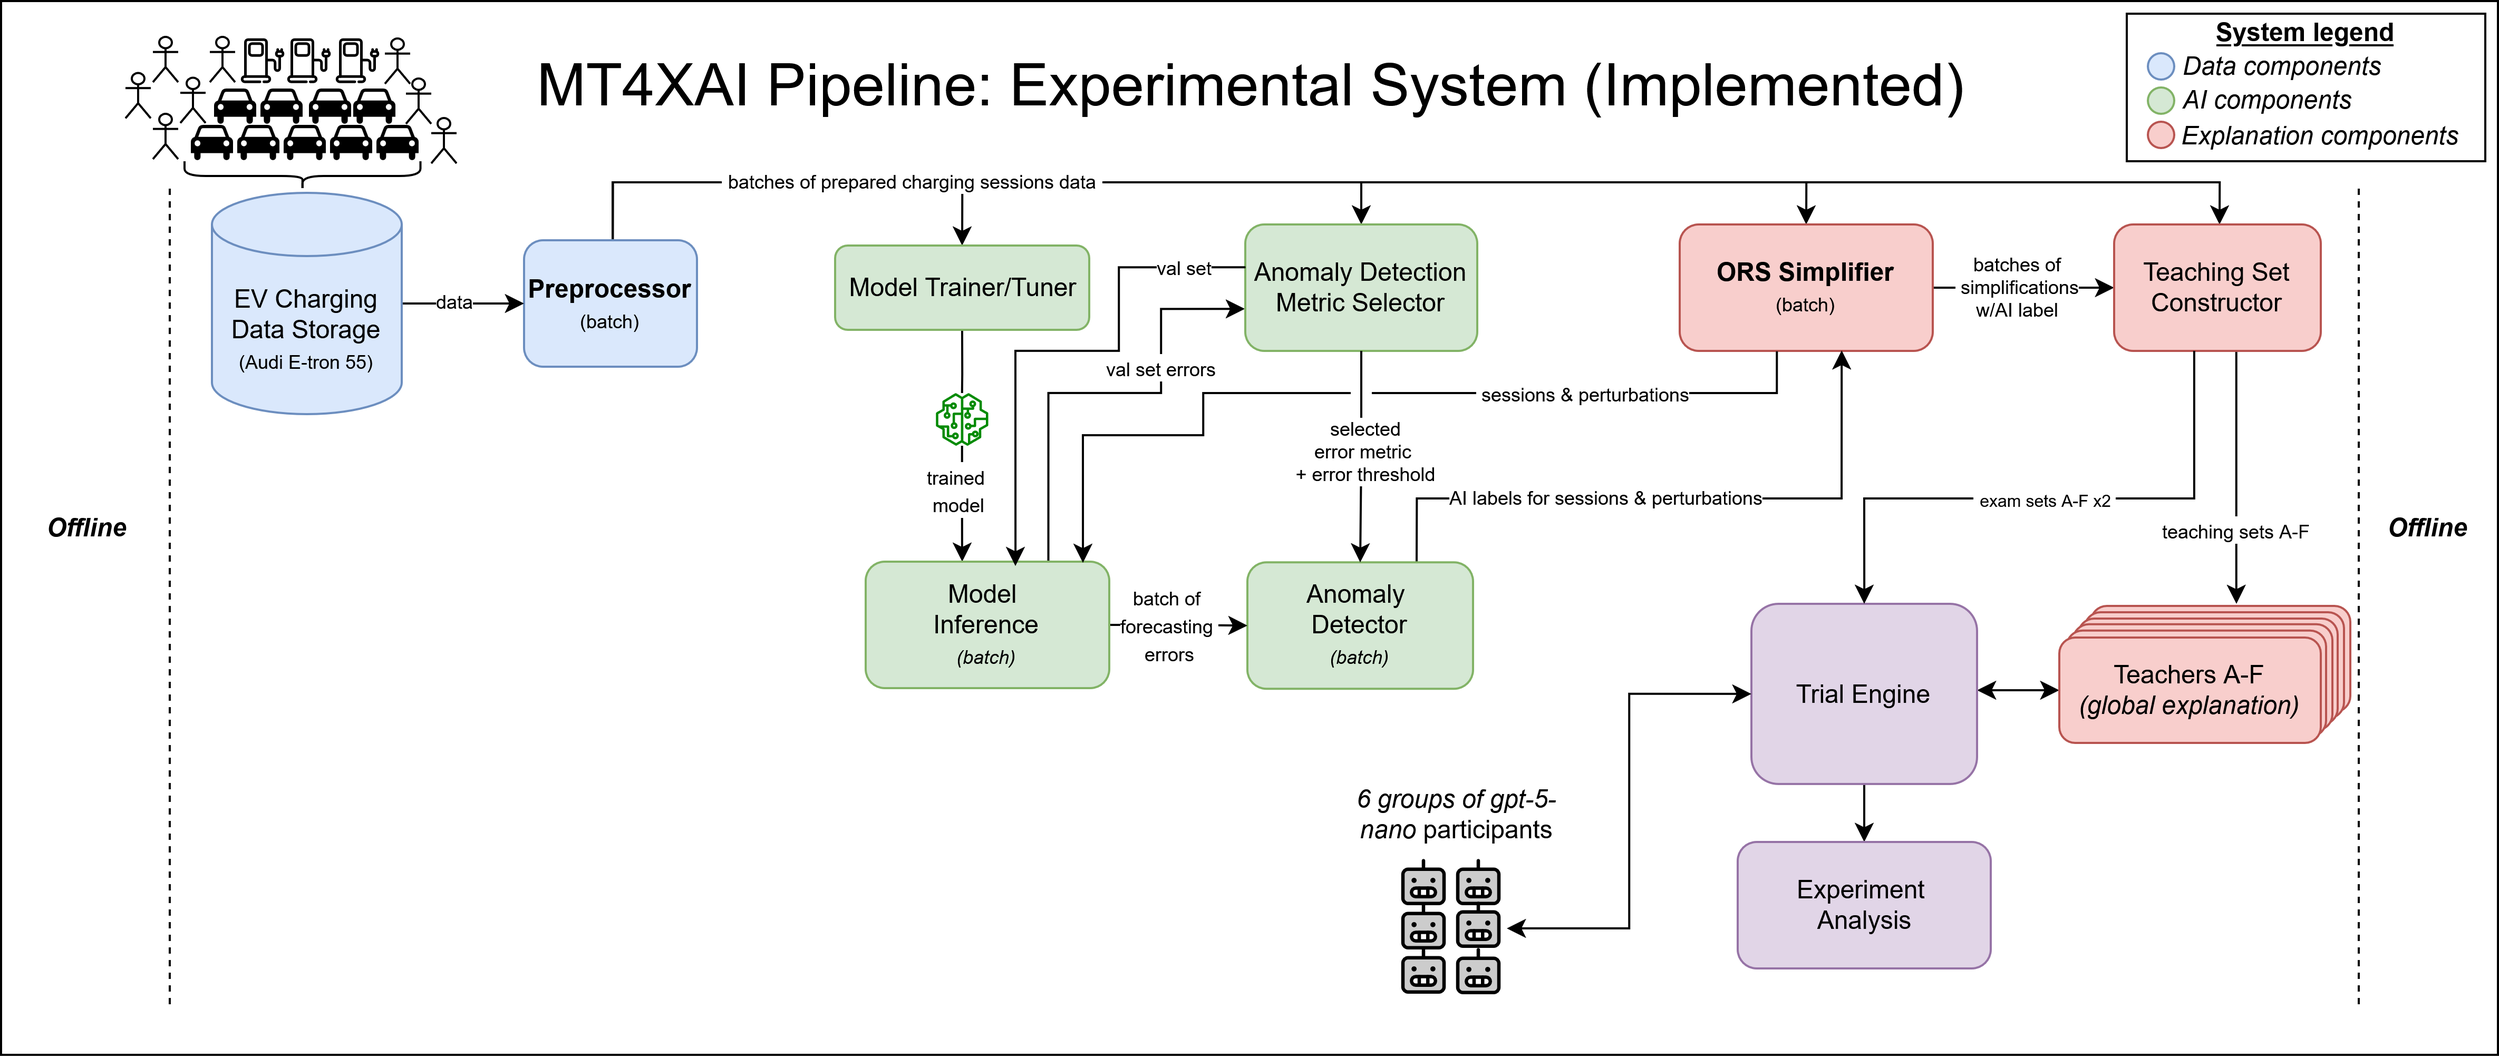
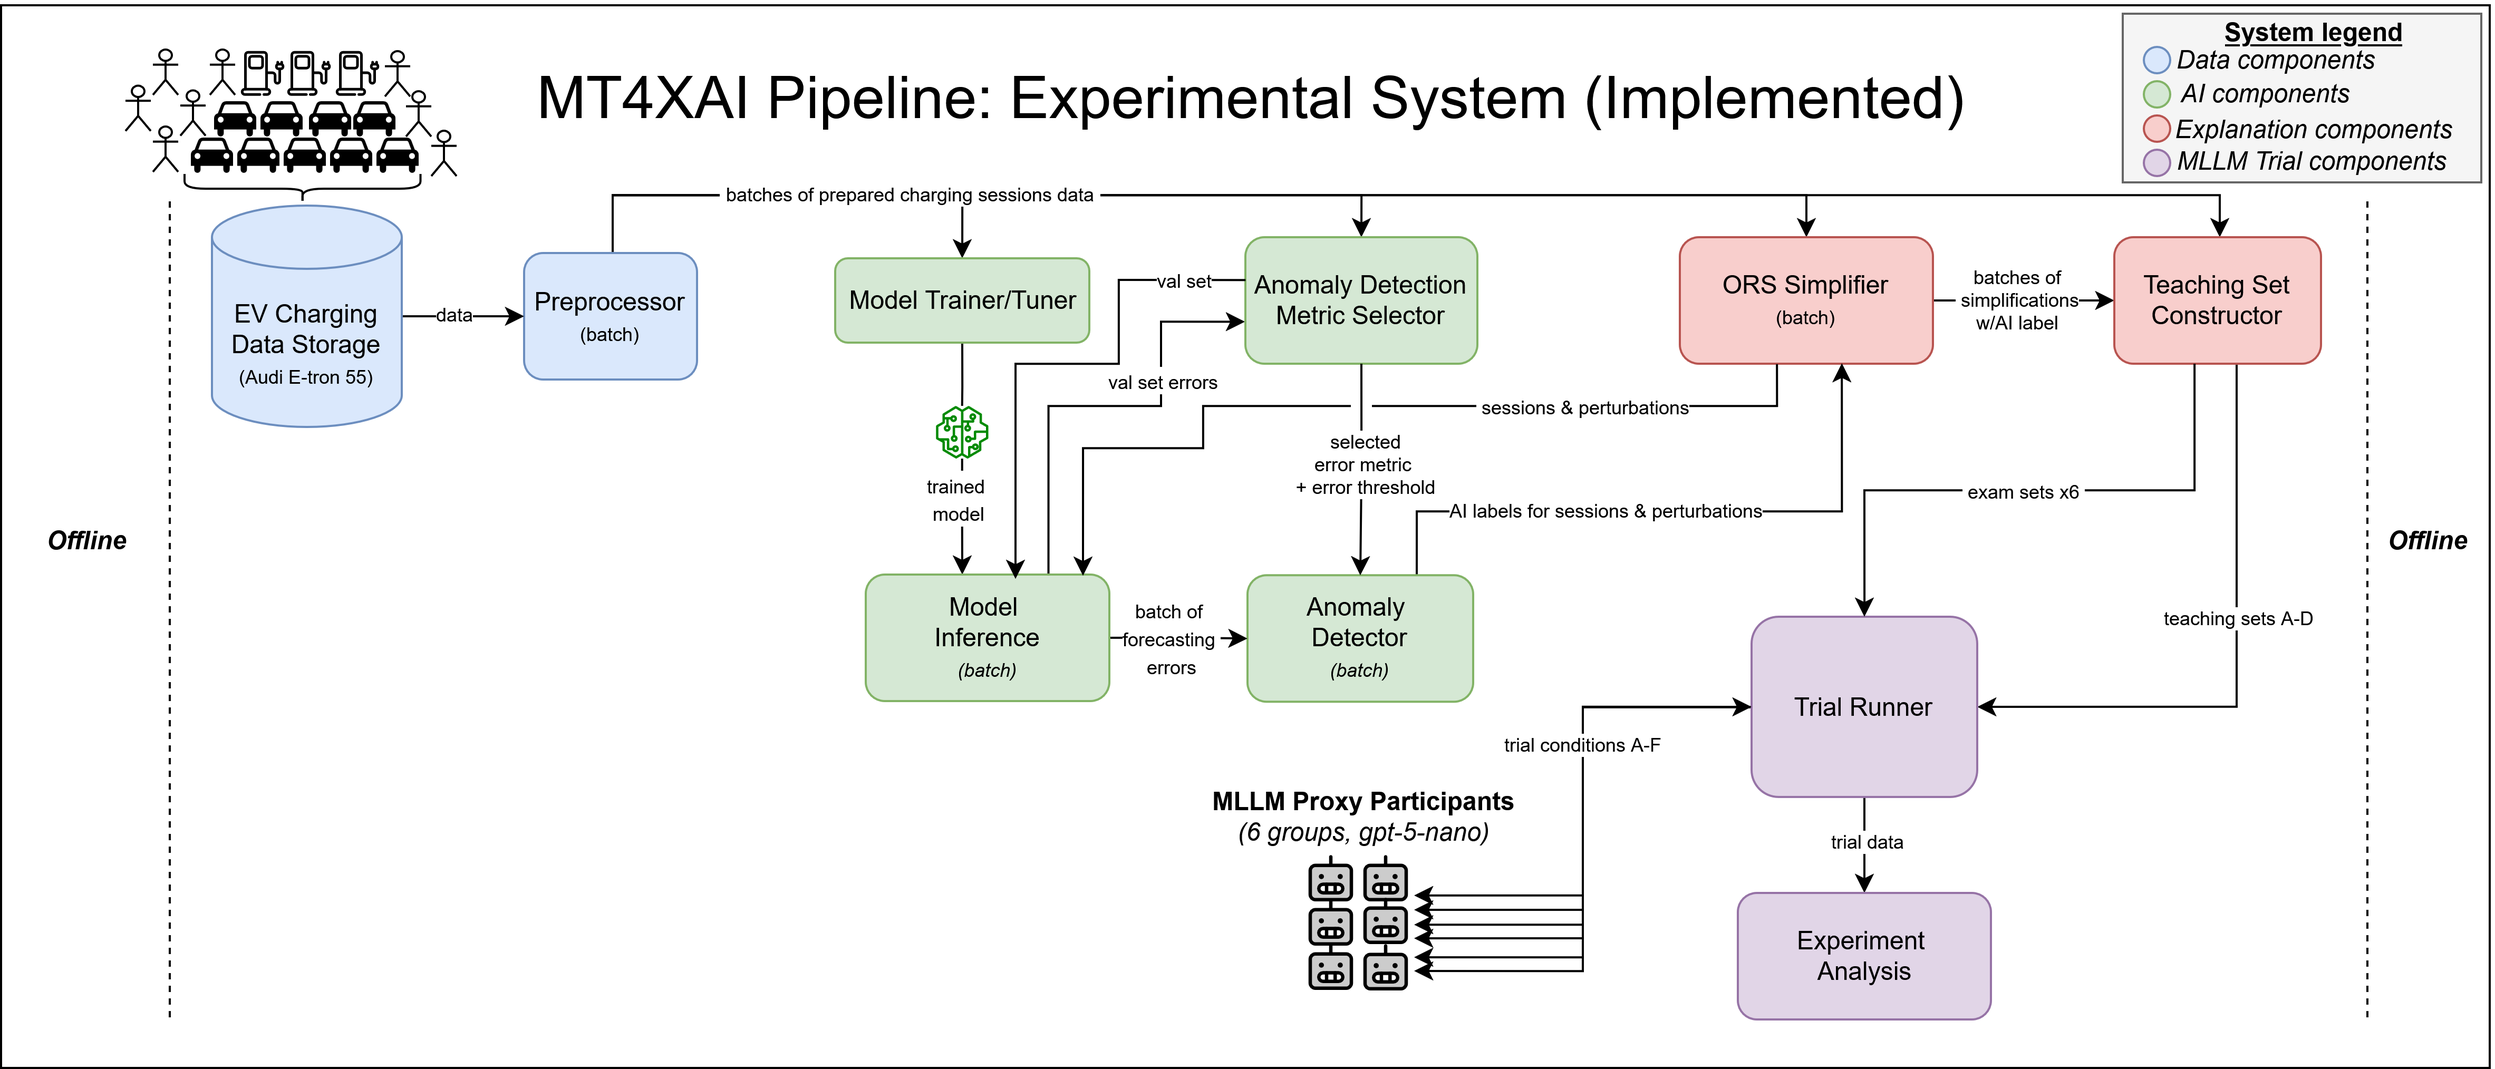
docs: update README.md

diff --git a/README.md b/README.md
@@ -2,204 +2,223 @@
 #### Machine-Teaching-for-XAI--TimeSeries-Models
 by Sebastian Einar Salas Røkholt
 
-## Introduction
-This repository contains the implementation for the master's thesis **"Machine Teaching for Explainable AI in Industry: A Novel Approach for Time Series Classifiers"** (University of Bergen, March 2026).
+## Project Context
+This repository contains the implementation for the University of Bergen MSc thesis **Machine Teaching for Explainable AI in Industry: A Novel Approach for Time Series Classifiers** (March 2026).
 
-The project involves applying a novel XAI technique for a real-world sequence-level time series anomaly detection (SL-TSAD) problem. The core idea is to use **Machine Teaching** to generate compact, example-based teaching sessions so a learner can better simulate a black-box anomaly detection system's `normal`/`abnormal` decisions.
+The project builds an end to end MT4XAI pipeline for sequence level time series anomaly detection on EV charging sessions.
 
-The repository covers the full pipeline:
-- Data wrangling, preprocessing and feature engineering for constructing an EV charging session dataset suitable for model training
-- Exploratory Data Analysis
-- Sequence-level time series anomaly detection (SL-TSAD) model development with LSTM- and TCN-based forecasting
-- Charging curve simplification and curriculum-oriented teaching set construction.
-- Automated machine teaching experiment on multimodal LLMs
+The implemented system currently covers:
+- forecasting based anomaly detection with LSTM and TCN modelling support
+- anomaly scoring with session level metrics and threshold based classification
+- classifier preserving charging curve simplification with ORS
+- machine teaching set construction with facility location selection and curriculum aware serving
+- MLLM based proxy learner experiments across conditions A to F
 
-The thesis can be read at:
+Thesis PDF:
 - `Docs/INF399___MT4XAI_Master_s_Project.pdf`
+
+## Architecture and Pipeline
+This section documents the current and target pipeline architecture.
+
+### 1. MT4XAI Experimental System Pipeline Diagram (implemented)
+![MT4XAI Experimental System Pipeline Diagram](Docs/Diagrams/MT4XAI%20Experimental%20System%20Pipeline%20Diagram.png)
+
+This diagram summarises the implemented offline experimental pipeline in this repository. Prepared charging session batches are used to train the forecasting model, select anomaly scoring configuration, generate ORS simplifications, construct teaching sets, and run the MLLM trial engine with groups A to F.
+
+### 2. MT4XAI Pipeline with Detailed Teaching Set Construction Diagram (implemented)
+![MT4XAI Pipeline with Detailed Teaching Set Construction Diagram](Docs/Diagrams/MT4XAI%20Pipeline%20with%20Detailed%20Teaching%20Set%20Construction%20Diagram.png)
+
+This diagram expands the implemented teaching set flow. Simplification candidates are embedded, stratified by simplicity level and budget, then selected with a facility location objective to produce compact and diverse teaching sets used by conditions A to D, where group E reuses D assets and group F is a no teaching baseline.
+
+### 3. MT4XAI Target Production System Pipeline Diagram (future work)
+![MT4XAI Target Production System Pipeline Diagram](Docs/Diagrams/MT4XAI%20Target%20Production%20System%20Pipeline%20Diagram.png)
+
+This diagram shows the target production concept for combined offline and online operation. Offline components periodically train and refresh the model and global teaching set, while online components process a single user charging session, classify it, optionally simplify it, and support user facing local or global explanation workflows.
 
 ## Repository Structure
 ```text
 .
-├── Docs/                         # Thesis drafts and project documents
-├── Notebooks/                    # Methodology notebooks (01-06)
+├── Docs/
+│   ├── INF399___MT4XAI_Master_s_Project.pdf
+│   └── Diagrams/
+├── Notebooks/
+│   ├── 00__Data_Anonymisation.ipynb
 │   ├── 01__Data_Wrangling_and_FE.ipynb
 │   ├── 02__EDA.ipynb
 │   ├── 03__Modelling.ipynb
 │   ├── 04__Anomaly_Detection.ipynb
 │   ├── 05__Curve_Simplification.ipynb
-│   └── 06__MT4XAI.ipynb
+│   ├── 06__MT4XAI.ipynb
+│   └── 07__MLLM_Experiment.ipynb
 ├── src/
-│   ├── mt4xai/                   # Reusable core package for pipeline logic
-│   └── mllm_experiment/          # Script-based MLLM experiment runner
-├── Data/
-│   ├── etron55-charging-sessions.parquet      # Main cleaned dataset
-│   ├── teaching_pool/                         # Teaching pool artifacts
-│   ├── exam_teaching_pool/                    # Exam pool artifacts
-│   ├── mllm_experiment_metadata/              # teaching_items.csv, exam_items.csv
-│   └── mllm_experiment_results/               # Trial outputs/logs
-├── Figures/
-│   ├── teaching_sets/                          # Teaching set figures
-│   └── exam_sets/                              # Exam set figures
-├── Models/                      # Ray Tune runs and final model checkpoints
-├── config.yaml                  # Project configuration
-├── project_config.py            # Config loader
-├── linux_requirements.txt       # Pinned Python dependencies
-└── pyproject.toml               # Package metadata
+│   ├── mt4xai/                  # Core modelling, inference, ORS and teaching logic
+│   └── mllm_experiment/         # MLLM experiment runner, prompts and metadata loaders
+├── Data/                        # Datasets and generated metadata or results
+├── Figures/                     # Teaching and exam set figures
+├── Models/                      # Trained model checkpoints and tuning outputs
+├── scripts/                     # Utility scripts such as ORS validation
+├── config.yaml
+├── project_config.py
+├── linux_requirements.txt
+└── pyproject.toml
 ```
 
 ## Notebook Overview
-The notebooks are the step-by-step methodology implementation and documentation. They should be run in order.
+Notebook execution is split into a reproducibility only step and a recommended main workflow.
 
-| Step | Notebook | Purpose | Main outputs |
+**Important**
+- `00__Data_Anonymisation.ipynb` depends on the private raw dataset and external weather APIs
+- readers without private raw data should start from `01__Data_Wrangling_and_FE.ipynb`
+
+| Step | Notebook | Role in pipeline | Main outputs |
 |---|---|---|---|
-| 1 | `01__Data_Wrangling_and_FE.ipynb` | Clean raw session data and engineer features | `Data/etron55-charging-sessions.parquet` |
-| 2 | `02__EDA.ipynb` | Explore distributions, structure, and data quality | EDA figures/tables |
-| 3 | `03__Modelling.ipynb` | Train/tune LSTM and TCN forecasting models | `Models/bohb_*`, selected final model |
-| 4 | `04__Anomaly_Detection.ipynb` | Build sequence-level anomaly detection setup and thresholding | AD diagnostics and threshold choices |
-| 5 | `05__Curve_Simplification.ipynb` | Explore/tune ORS simplifications | Simplification diagnostics and examples |
-| 6 | `06__MT4XAI.ipynb` | Build teaching/exam pools and MT4XAI sets | Teaching/exam pool artifacts and figures |
+| 0 | `00__Data_Anonymisation.ipynb` | Reproducibility only preprocessing on private raw source | `Data/etron55-charging-sessions-public.parquet` |
+| 1 | `01__Data_Wrangling_and_FE.ipynb` | Public dataset wrangling and feature engineering for modelling | `Data/etron55-charging-sessions.parquet` |
+| 2 | `02__EDA.ipynb` | Exploratory analysis used for design choices | EDA tables and figures |
+| 3 | `03__Modelling.ipynb` | Forecasting model training and tuning | `Models/` checkpoints and selected final model |
+| 4 | `04__Anomaly_Detection.ipynb` | Session level scoring and threshold calibration | Anomaly metric and threshold configuration |
+| 5 | `05__Curve_Simplification.ipynb` | ORS diagnostics and parameter selection | Simplification diagnostics and examples |
+| 6 | `06__MT4XAI.ipynb` | Teaching pool construction and teaching or exam set export | `Figures/teaching_sets/`, `Figures/exam_sets/`, metadata build inputs |
+| 7 | `07__MLLM_Experiment.ipynb` | Trial execution wrapper and effect analysis for groups A to F | `Data/mllm_experiment_results/` analysis outputs |
 
-Note: the **MLLM experiment is script-based**, not notebook-based. It should be run last. The script for running experiments lives in `src/mllm_experiment/`.
+Recommended order for most users is `01` to `07`.
 
 ## Source Code Overview
-
 ### `src/mt4xai`
-Reusable core package used by notebooks:
-- `data.py`: session grouping, splitting, scaling, loaders.
-- `model.py`: forecasting model definitions and loading utilities.
-- `train.py`: training/tuning helpers.
-- `inference.py`: prediction reconstruction and anomaly metrics.
-- `ors.py`: ORS simplification logic.
-- `teach.py`: teaching pool and teaching set construction/serving.
-- `plot.py`: plotting helpers for model outputs and simplifications.
+Reusable pipeline package used by notebooks.
+- `data.py` data handling, splits, scaling, session containers
+- `model.py` LSTM and TCN forecasting models and loaders
+- `train.py` Ray based tuning and training loops
+- `inference.py` residual prediction reconstruction, anomaly metrics and classification helpers
+- `ors.py` merged ORS implementation including DP prefix v3 mode
+- `ors_v3.py` compatibility wrapper that maps legacy `ors_v3` imports to `mt4xai.ors`
+- `teach.py` teaching pool and teaching set construction logic
+- `plot.py` visualisation helpers
 
 ### `src/mllm_experiment`
-Script-based MLLM trial pipeline:
-- `run_trial.py`: CLI entrypoint for multi-participant experiment runs.
-- `trial.py`: participant lifecycle (pre exam → teaching → post exam).
-- `data_loading.py`: metadata/image loading and group/phase resolution.
-- `prompts.py`: multimodal prompt construction.
-- `openai_client.py`: OpenAI API wrapper with retry/rate-limiting.
-- `build_teaching_sets.py`: anonymise teaching images + build teaching metadata CSV.
-- `build_exam_sets.py`: anonymise exam images + build exam metadata CSV.
-- `config.py`, `utils.py`: experiment settings and structured logging helpers.
+Scriptable MLLM evaluation package.
+- `run_trial.py` trial CLI entry point and run metadata handling
+- `trial.py` participant lifecycle across pre exam, teaching and post exam
+- `data_loading.py` metadata and image loading with group aware resolution
+- `prompts.py` multimodal prompt builders per phase and condition
+- `openai_client.py` OpenAI Responses API wrapper with retries and shared rate limiting
+- `build_teaching_sets.py` anonymised teaching set image export and `teaching_items.csv`
+- `build_exam_sets.py` anonymised exam set image export and `exam_items.csv`
+- `utils.py` structured logging and result writers
 
-Current code supports experiments on different MLLM participant groups with one of conditions `A`, `B`, `C`, `D`, `E`, `F`:
- - A: Participant sees both original (raw) and simplified examples with an easy-to-hard curriculum.
- - B: Participant sees the same modality as A but with no curriculum (random order).
- - C: Participant sees only original examples with no curriculum.
- - D: Participant sees simplification-only teaching and post-exam examples, with curriculum.
- - E: Participant sees simplification-only teaching and post-exam examples with sequential rule-of-thumb updates during teaching, then fixed-rule application in post-exam.
- - F: Baseline condition with no teaching phase, only pre and post exam in raw modality.
+### Experiment Conditions
+Current trial support includes conditions `A` to `F`.
+- `A` overlay plus simplified with curriculum
+- `B` overlay plus simplified without curriculum
+- `C` raw modality only
+- `D` simplified modality with curriculum
+- `E` simplified modality with enforced rule update protocol and locked post exam rule use
+- `F` baseline with no teaching phase
 
+## Secrets and Environment Variables
+Create `.env` from the committed template:
+
+```bash
+cp example.env .env
+```
+
+Required secrets by workflow:
+- `OPENAI_API_KEY` for real API calls in `07__MLLM_Experiment.ipynb` and `mllm_experiment.run_trial`
+- `FROST_API_CLIENT_ID` and `DMI_MET_OBS_API_KEY` for `00__Data_Anonymisation.ipynb`
+
+The template also includes legacy optional placeholders currently present in local environment files.
 
 ## Setup
+Python 3.12 is the target runtime.
 
-### Prerequisites
-- Linux or macOS shell environment.
-- Python >=**3.12** recommended (tested with `3.12.10`).
-- Optional CUDA GPU for model training/tuning notebooks.
-- OpenAI API key for non-dry-run MLLM experiments.
-- API keys for Scandinavian metrological services (Frost, DMI) for feature engineering related to temperature readings. 
-
-### Environment setup
+### Option A: CUDA setup on Linux or WSL2 with NVIDIA GPU
 ```bash
-# from repository root
 python3.12 -m venv .venv
 source .venv/bin/activate
 pip install --upgrade pip
 pip install -r linux_requirements.txt
 pip install -e .
+python - <<'PY'
+import torch
+print("cuda_available=", torch.cuda.is_available())
+PY
 ```
 
-### Environment variables
-Create `.env` in repository root:
-
+### Option B: CPU only setup
 ```bash
-OPENAI_API_KEY=your_openai_key
-FROST_API_CLIENT_ID=your_frost_client_id
-DMI_MET_OBS_API_KEY=your_dmi_api_key
+python3.12 -m venv .venv
+source .venv/bin/activate
+pip install --upgrade pip
+grep -vE '^(torch==|nvidia-|triton==)' linux_requirements.txt > /tmp/requirements.cpu.txt
+pip install --index-url https://download.pytorch.org/whl/cpu torch==2.5.0
+pip install -r /tmp/requirements.cpu.txt
+pip install -e .
+python - <<'PY'
+import torch
+print("cuda_available=", torch.cuda.is_available())
+PY
 ```
 
-Notes:
-- `OPENAI_API_KEY` is required for real MLLM runs.
-- `FROST_API_CLIENT_ID` and `DMI_MET_OBS_API_KEY` are used in Notebook 01 if re-running external weather enrichment.
-
-### Data access and sharing
-- This repository includes data with sharing constraints. See `Data/README.md`.
-- If reproducing from raw sources, keep the cleaned dataset path consistent with `config.yaml`:
-  - `Data/etron55-charging-sessions.parquet`
-
-## Reproducible Execution (From Scratch)
-
-### 1) Run notebooks in methodology order
+## Running the Pipeline
+### 1. Run notebooks
 ```bash
 cd Notebooks
 ../.venv/bin/jupyter lab
 ```
-Then run:
+
+Run in order:
 1. `01__Data_Wrangling_and_FE.ipynb`
 2. `02__EDA.ipynb`
 3. `03__Modelling.ipynb`
 4. `04__Anomaly_Detection.ipynb`
 5. `05__Curve_Simplification.ipynb`
 6. `06__MT4XAI.ipynb`
+7. `07__MLLM_Experiment.ipynb`
 
-This pipeline produces the model and teaching/exam artefacts consumed by the MLLM scripts.
-At the end of `06__MT4XAI.ipynb`, run the final build cell to generate anonymised
-MLLM experiment assets and metadata.
+Run notebook `00__Data_Anonymisation.ipynb` only when reproducing private data anonymisation.
 
-### 2) Build anonymised MLLM teaching/exam metadata
-Preferred path: run the final build cell in `06__MT4XAI.ipynb`.
-
-Standalone fallback: run from repository root:
-
+### 2. Build anonymised teaching and exam metadata with package entry points
 ```bash
-./.venv/bin/python src/mllm_experiment/build_teaching_sets.py
-./.venv/bin/python src/mllm_experiment/build_exam_sets.py
+source .venv/bin/activate
+exp-build-teaching-sets
+exp-build-exam-sets
 ```
 
-Outputs are written to:
-- `Figures/teaching_sets/mllm_experiment_sets/`
-- `Figures/exam_sets/mllm_experiment_sets/`
-- `Data/mllm_experiment_metadata/`
-
-### 3) Validate experiment pipeline in dry-run mode
+Equivalent module form:
 ```bash
-PYTHONPATH=src ./.venv/bin/python -m mllm_experiment.run_trial \
+PYTHONPATH=src python -m mllm_experiment.build_teaching_sets
+PYTHONPATH=src python -m mllm_experiment.build_exam_sets
+```
+
+### 3. Validate trial runner with dry run
+```bash
+PYTHONPATH=src python -m mllm_experiment.run_trial \
   --participants 1 \
   --teaching_set_dir Figures/teaching_sets/mllm_experiment_sets \
   --exam_sets_dir Figures/exam_sets/mllm_experiment_sets \
   --metadata_dir Data/mllm_experiment_metadata \
-  --conditions abc \
+  --conditions all \
   --output_dir Data/mllm_experiment_results/dry_run \
   --random_seed 42 \
   --dry_run
 ```
-For reproducible baseline comparisons, start with `--conditions abc`. Include `d` or `e` for simplified-only conditions, and include `f` for the no-teaching baseline.
 
-### 4) Run MLLM experiment (real API)
+### 4. Run real MLLM experiment
 ```bash
-PYTHONPATH=src ./.venv/bin/python -m mllm_experiment.run_trial \
-  --participants 20 \
+PYTHONPATH=src python -m mllm_experiment.run_trial \
+  --participants 30 \
   --teaching_set_dir Figures/teaching_sets/mllm_experiment_sets \
   --exam_sets_dir Figures/exam_sets/mllm_experiment_sets \
   --metadata_dir Data/mllm_experiment_metadata \
-  --conditions abc \
-  --output_dir Data/mllm_experiment_results/pilot_02 \
-  --model_name gpt-5-mini \
+  --conditions all \
+  --output_dir Data/mllm_experiment_results/gpt-5-nano_experiment_1 \
+  --model_name gpt-5-nano \
   --parallel_participants 2 \
   --random_seed 42
 ```
 
 ## Reproducibility Notes
-- Keep `config.yaml`, notebook parameters, and CLI flags versioned together with each run.
-- Always log and report `--random_seed` for MLLM runs.
-- Run dry-run before real API calls to validate metadata/prompt formatting.
-- Store each experiment in a unique `--output_dir` to avoid mixed logs.
-- Keep immutable snapshots of:
-  - `Data/mllm_experiment_metadata/*.csv`
-  - `Data/mllm_experiment_results/<run_id>/`
-  - `Models/final/final_model.pth`
-
-## Results
+- Keep `config.yaml`, notebook parameters, and CLI flags versioned together for each run
+- Use unique output directories under `Data/mllm_experiment_results/`
+- Keep immutable snapshots of `Data/mllm_experiment_metadata/*.csv`, run metadata JSON, and selected model checkpoints
+- Run dry runs before real API runs to validate metadata and prompt protocol formatting
